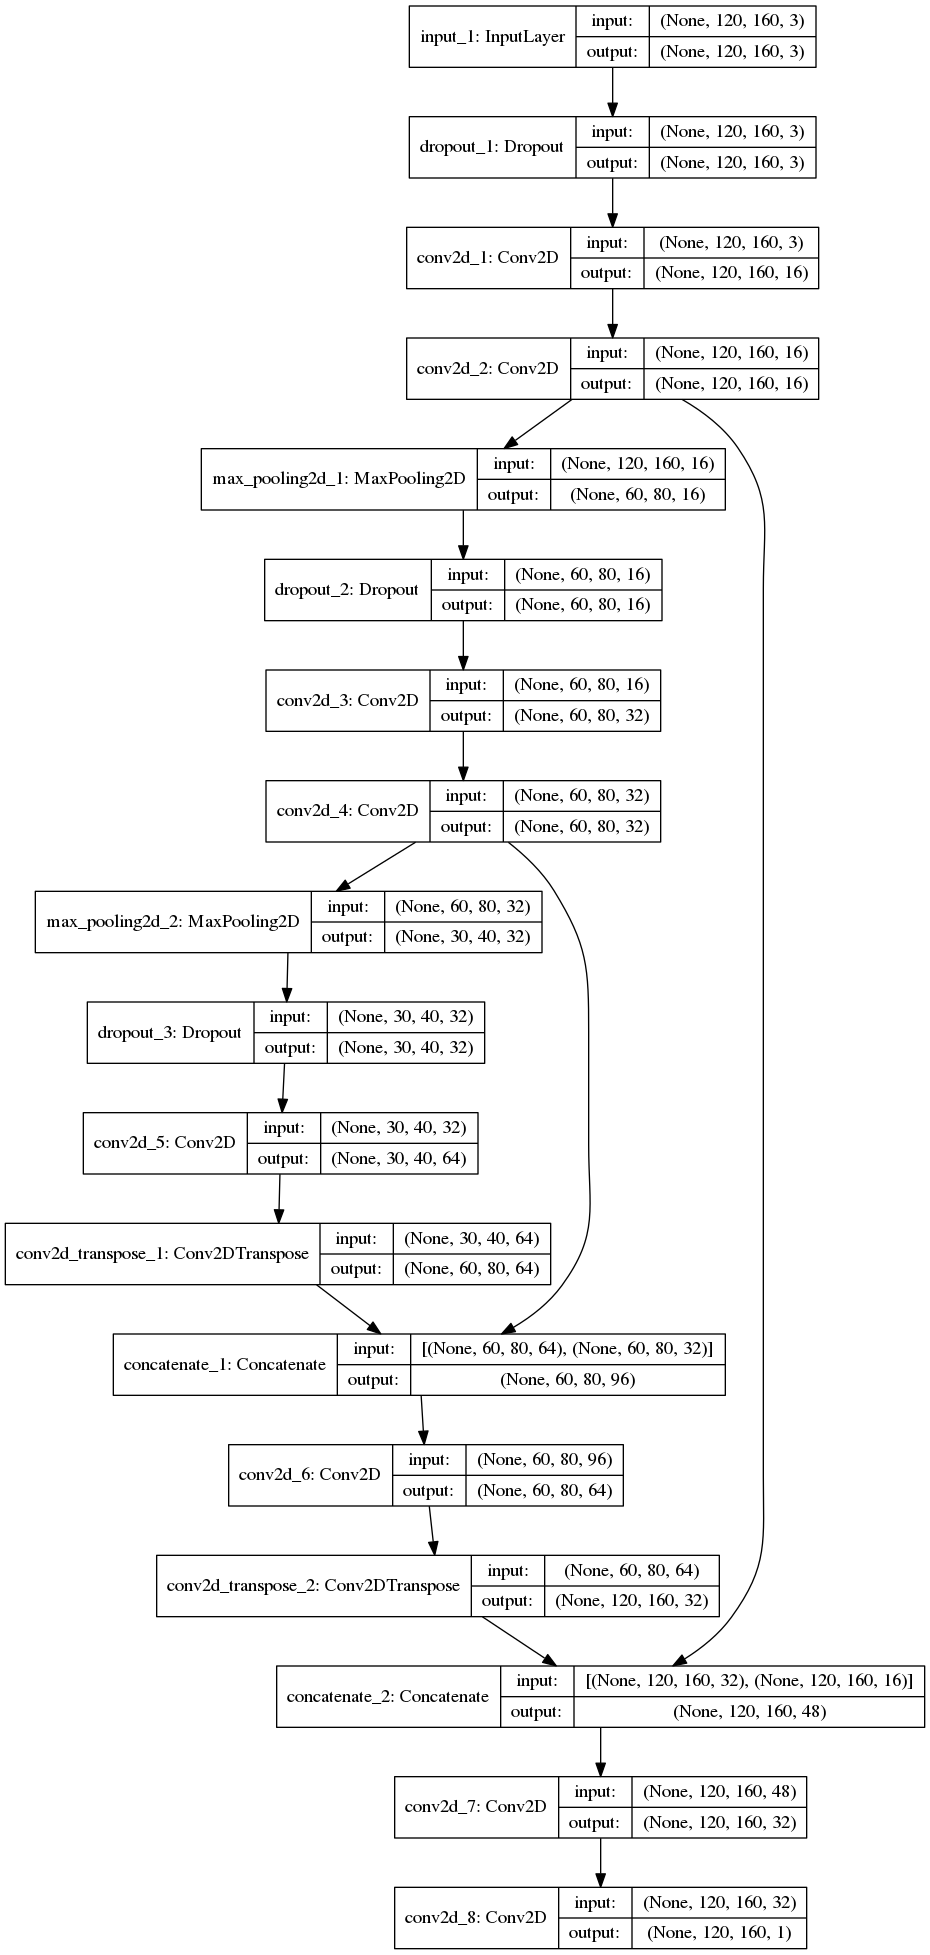
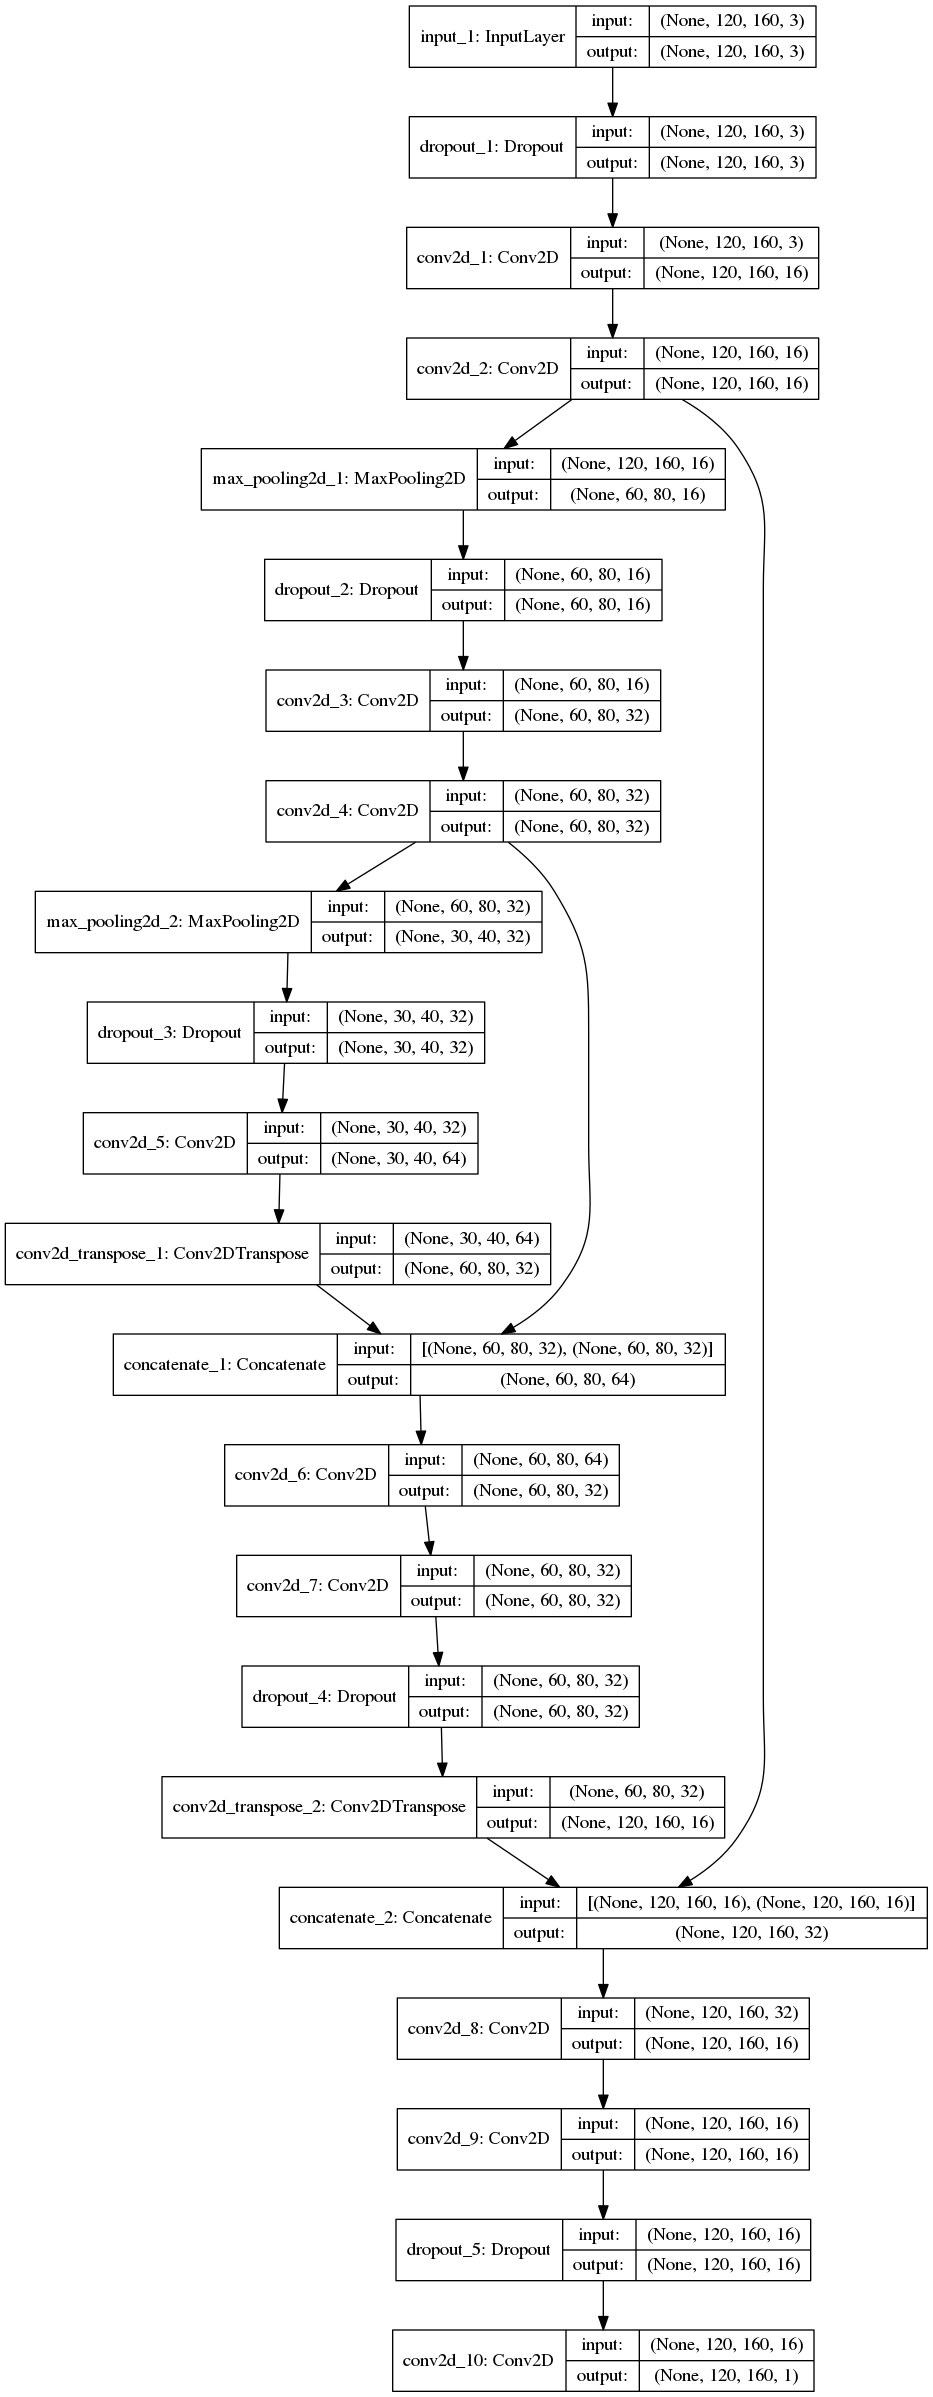
NN: Wider model

Changed region(s): [[0.0, 0.0, 0.9978, 0.9985], [0.0, 0.624, 0.1559, 0.6552], [0.1559, 0.6864, 0.2183, 0.7176]]

diff --git a/nn/net.py b/nn/net.py
@@ -69,19 +69,22 @@ def get_network_model(lr=1e-3):
 
 	conv3 = Conv2D(64,(3,3),activation='relu',padding='same', kernel_initializer = 'he_normal')(drop2)
 
-	up7 = concatenate([Conv2DTranspose(64, (2, 2), strides=(2, 2), padding='same')(conv3), conv2], axis=3)
-	conv7 = Conv2D(64, (3, 3), activation='relu', padding='same')(up7)
+	up7 = concatenate([Conv2DTranspose(32, (2, 2), strides=(2, 2), padding='same')(conv3), conv2], axis=3)
+	conv7 = Conv2D(32, (3, 3), activation='relu', padding='same')(up7)
+	conv7 = Conv2D(32, (3, 3), activation='relu', padding='same')(conv7)
+	drop2 = Dropout(0.25)(conv7)
 
-	up8 = concatenate([Conv2DTranspose(32, (2, 2), strides=(2, 2), padding='same')(conv7), conv1], axis=3)
-	conv8 = Conv2D(32, (3, 3), activation='relu', padding='same')(up8)
+	up8 = concatenate([Conv2DTranspose(16, (2, 2), strides=(2, 2), padding='same')(drop2), conv1], axis=3)
+	conv8 = Conv2D(16, (5, 5), activation='relu', padding='same')(up8)
+	conv8 = Conv2D(16, (5, 5), activation='relu', padding='same')(conv8)
 
 	# norm2 = BatchNormalization()(drop2)
 
 	# conv3 = Conv2D(64,(3,3),activation='relu',padding='same', kernel_initializer = 'he_normal')(drop2)
 	# conv3 = Conv2D(64,(3,3),activation='relu',padding='same', kernel_initializer = 'he_normal')(conv3)
-	# drop3 = Dropout(0.5)(conv3)
+	drop3 = Dropout(0.5)(conv8)
 
-	out   = Conv2D(nn_out_chnls,(1,1),activation='sigmoid',padding='same', kernel_initializer = 'he_normal')(conv8)
+	out   = Conv2D(nn_out_chnls,(1,1),activation='sigmoid',padding='same', kernel_initializer = 'he_normal')(drop3)
 
 	model = Model(input, out)
 	
